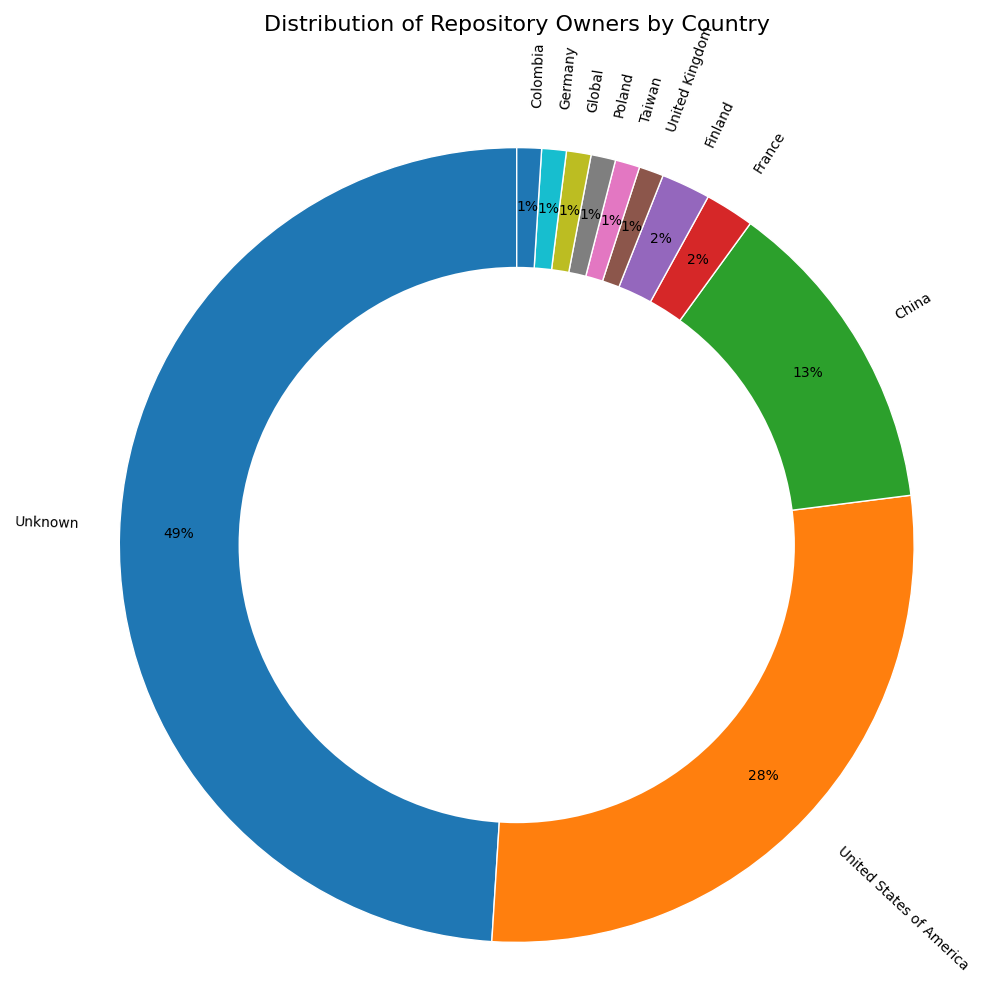
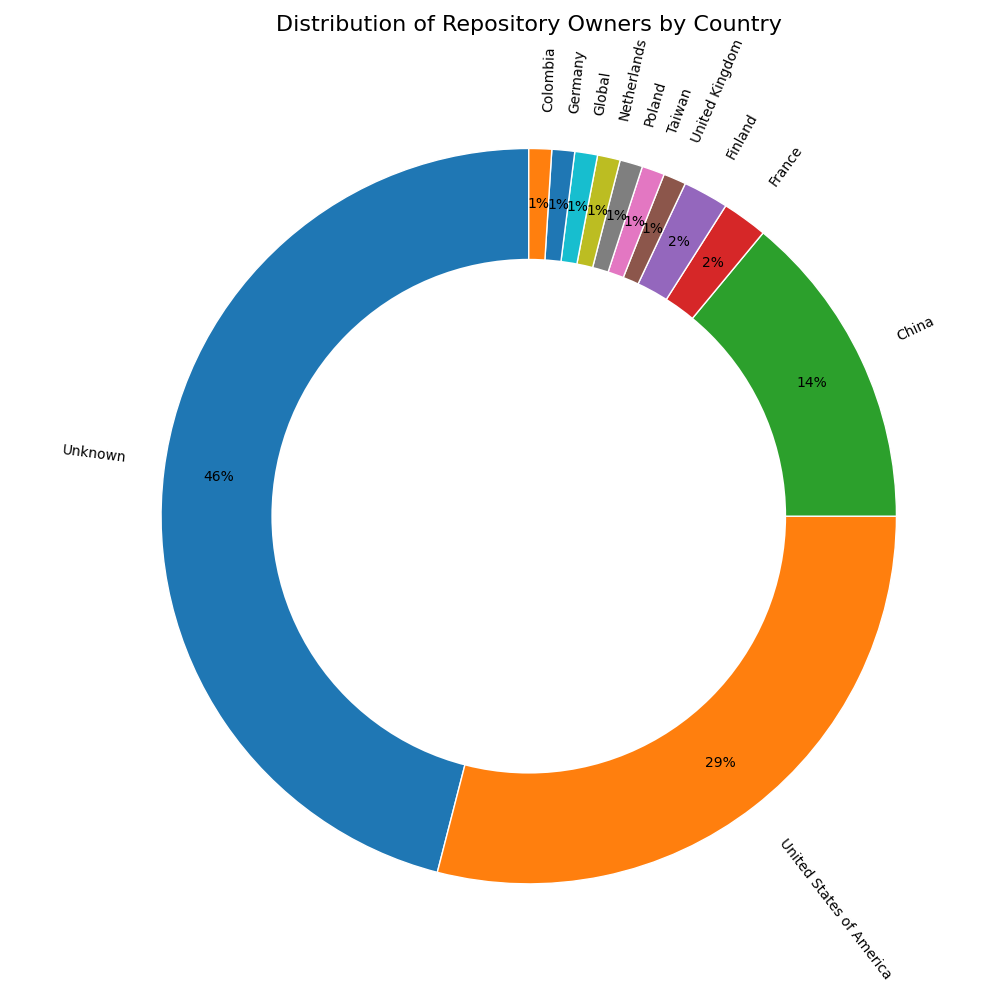
added_pie

diff --git a/generate_charts.py b/generate_charts.py
@@ -183,15 +183,14 @@ def update_readme_with_chart(readme_path="README.md", chart_image_path="country_
     existing_chart_pattern = re.compile(r"\n## Repository Owner Country Distribution\n\n!\\[Country Distribution\\]\(.*?\.png\)\\n")
     existing_chart_match = existing_chart_pattern.search(content, insert_idx - len(chart_markdown) - 100) # Search slightly before expected insertion
     
-    if existing_chart_match:
-        # Replace existing chart markdown
-        # content = existing_chart_pattern.sub(chart_markdown, content)
-        # print("Updated existing chart in README.md")
-        pass
-    else:
-        # Insert new chart markdown
-        content = content[:insert_idx] + chart_markdown + content[insert_idx:]
-        print("Inserted new chart into README.md")
+    # if existing_chart_match:
+    # Replace existing chart markdown
+    content = existing_chart_pattern.sub(chart_markdown, content)
+    print("Updated existing chart in README.md")
+    # else:
+    #     # Insert new chart markdown
+    #     content = content[:insert_idx] + chart_markdown + content[insert_idx:]
+    #     print("Inserted new chart into README.md")
 
     return content
 

diff --git a/README.md b/README.md
@@ -96,9 +96,9 @@
 | 89 | [ant-design](https://github.com/ant-design/ant-design) | 97228 | 54355 | TypeScript | 1287 | An enterprise-class UI design language and React UI library | 2026-01-13T03:59:07Z | Org | China |
 | 90 | [HowToCook](https://github.com/Anduin2017/HowToCook) | 97016 | 10753 | Dockerfile | 451 | 程序员在家做饭方法指南。Programmer's guide about how to cook at home (Simplified Chinese only). | 2026-01-05T17:01:47Z | User | China |
 | 91 | [pytorch](https://github.com/pytorch/pytorch) | 96570 | 26487 | Python | 16132 | Tensors and Dynamic neural networks in Python with strong GPU acceleration | 2026-01-13T03:48:27Z | Org | United States of America |
-| 92 | [supabase](https://github.com/supabase/supabase) | 96077 | 11246 | TypeScript | 256 | The Postgres development platform. Supabase gives you a dedicated Postgres database to build your web, mobile, and AI applications. | 2026-01-13T03:57:27Z | Org | Unknown |
-| 93 | [neovim](https://github.com/neovim/neovim) | 95632 | 6515 | Vim Script | 1692 | Vim-fork focused on extensibility and usability | 2026-01-13T03:38:24Z | Org | Unknown |
-| 94 | [thefuck](https://github.com/nvbn/thefuck) | 95170 | 3815 | Python | 293 | Magnificent app which corrects your previous console command. | 2024-07-19T14:56:13Z | User | Unknown |
+| 92 | [supabase](https://github.com/supabase/supabase) | 96077 | 11246 | TypeScript | 256 | The Postgres development platform. Supabase gives you a dedicated Postgres database to build your web, mobile, and AI applications. | 2026-01-13T03:57:27Z | Org | United States of America |
+| 93 | [neovim](https://github.com/neovim/neovim) | 95632 | 6515 | Vim Script | 1692 | Vim-fork focused on extensibility and usability | 2026-01-13T03:38:24Z | Org | China |
+| 94 | [thefuck](https://github.com/nvbn/thefuck) | 95170 | 3815 | Python | 293 | Magnificent app which corrects your previous console command. | 2024-07-19T14:56:13Z | User | Netherlands |
 | 95 | [Web-Dev-For-Beginners](https://github.com/microsoft/Web-Dev-For-Beginners) | 94993 | 15006 | JavaScript | 34 | 24 Lessons, 12 Weeks, Get Started as a Web Developer | 2026-01-08T21:09:38Z | Org | United States of America |
 | 96 | [v2rayN](https://github.com/2dust/v2rayN) | 94442 | 14016 | C# | 7 | A GUI client for Windows, Linux and macOS, support Xray and sing-box and others | 2026-01-10T07:28:58Z | User | China |
 | 97 | [clean-code-javascript](https://github.com/ryanmcdermott/clean-code-javascript) | 94239 | 12510 | JavaScript | 80 | Clean Code concepts adapted for JavaScript | 2024-07-29T07:24:37Z | User | United States of America |
@@ -106,10 +106,6 @@
 | 99 | [java-design-patterns](https://github.com/iluwatar/java-design-patterns) | 93612 | 27368 | Java | 142 | Design patterns implemented in Java | 2025-10-21T21:30:34Z | User | Finland |
 | 100 | [puppeteer](https://github.com/puppeteer/puppeteer) | 93270 | 9361 | TypeScript | 273 | JavaScript API for Chrome and Firefox | 2026-01-12T15:19:50Z | Org | United States of America |
 
-
-## Repository Owner Country Distribution
-
-![Country Distribution](country_distribution.png)
 
 ## Repository Owner Country Distribution
 
